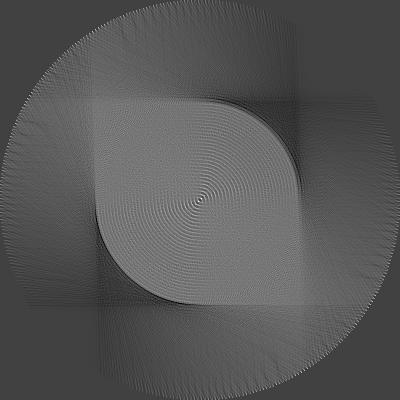
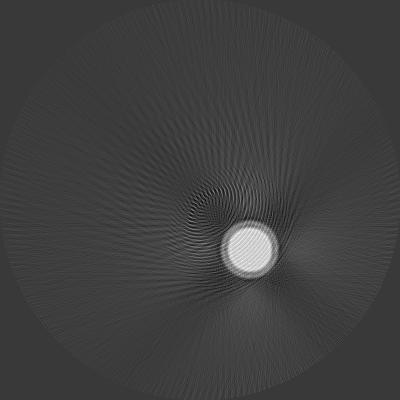
fixed iterations, now you can do more than 360 scans

diff --git a/Backend/Tomograph.py b/Backend/Tomograph.py
@@ -42,11 +42,12 @@ class Tomograph:
 
     def createSinogram(self, imageArray: np.ndarray, alpha: int, numberOfEmittersAndDetectors: int,
                        angularSpread: int, center: tuple, radiusX: int,radiusY: int, filter: bool) -> tuple:
-        sinogram = np.zeros((360 // alpha, numberOfEmittersAndDetectors))
+        sinogram = np.zeros((int(360 // alpha), numberOfEmittersAndDetectors))
 
         linePointsDict = dict()
+        angles = np.linspace(0, 360, int(360 // alpha))
 
-        for idx,angle in enumerate(range(0, 360, alpha)):
+        for idx,angle in enumerate(angles):
             emitters, detectors = self.getEmitterAndDetectorPoints(angle, numberOfEmittersAndDetectors, angularSpread, radiusX, radiusY, center)
 
             for i in range(numberOfEmittersAndDetectors):
@@ -59,7 +60,7 @@ class Tomograph:
                     x, y = linePoints[:, j]
 
                     if 0 <= x < imageArray.shape[0] and 0 <= y < imageArray.shape[1]:
-                        sinogram[angle // alpha, i] += imageArray[x, y]
+                        sinogram[idx, i] += imageArray[x, y]
 
         if filter:
             sinogram = self.filter.filterSinogram(sinogram, self.kernel)
@@ -78,7 +79,8 @@ class Tomograph:
         reconstructedImage = np.zeros(image_size)
         reconstructedImages = dict()
 
-        for idx, angle in enumerate(range(0, 360, alpha)):
+        angles = np.linspace(0, 360, int(360 // alpha))
+        for idx, angle in enumerate(angles):
 
             for i in range(numberOfEmittersAndDetectors):
                 linePoints = linePointsDict[(angle, i)]
@@ -87,7 +89,7 @@ class Tomograph:
                     x, y = linePoints[:, j]
 
                     if 0 <= x < image_size[0] and 0 <= y < image_size[1]:
-                        reconstructedImage[x, y] += sinogram[angle // alpha, i]
+                        reconstructedImage[x, y] += sinogram[idx, i]
 
             reconstructedImageNormalized = 255 * (reconstructedImage - np.min(reconstructedImage)) / (
                         np.max(reconstructedImage) - np.min(reconstructedImage))
@@ -146,7 +148,7 @@ class Tomograph:
 
         return sinograms, reconstructedImages, maxIter
     #TODO: DICOM
-    def run(self, imageURL: str,alpha: int, numberOfEmittersAndDetectors: int, angularSpread: int, filterSinogram: bool,
+    def run(self, imageURL: str,alpha, numberOfEmittersAndDetectors: int, angularSpread: int, filterSinogram: bool,
             imageArray, saveAsDicom: bool, dicomParams: dict, savePath: str) -> tuple:
 
         if imageArray is None:

diff --git a/Backend/Tester.py b/Backend/Tester.py
@@ -28,7 +28,7 @@ class Tester:
 
         numberOfEmittersAndDetectorsRange = list(range(90, 720, 90))
         numberOfScansRange = list(range(90, 720, 90))
-        alphas = [alpha * 180 / numberOfScans for numberOfScans in numberOfScansRange]
+        alphas = [int(360 // i) for i in numberOfScansRange]
         angularSpreadRange = list(range(45, 270, 45))
         testing = True
 

diff --git a/Backend/main.py b/Backend/main.py
@@ -1,7 +1,7 @@
 from Backend.Tomograph import Tomograph
 
 tomograph = Tomograph()
-tomograph.run("../ExampleImages/Kolo.jpg", 10, 180, 180, True, None,
+tomograph.run("../ExampleImages/Kropka.jpg", 0.5, 180, 180, True, None,
               False, dict(
     PatientName='Test',
     PatientID='001',
